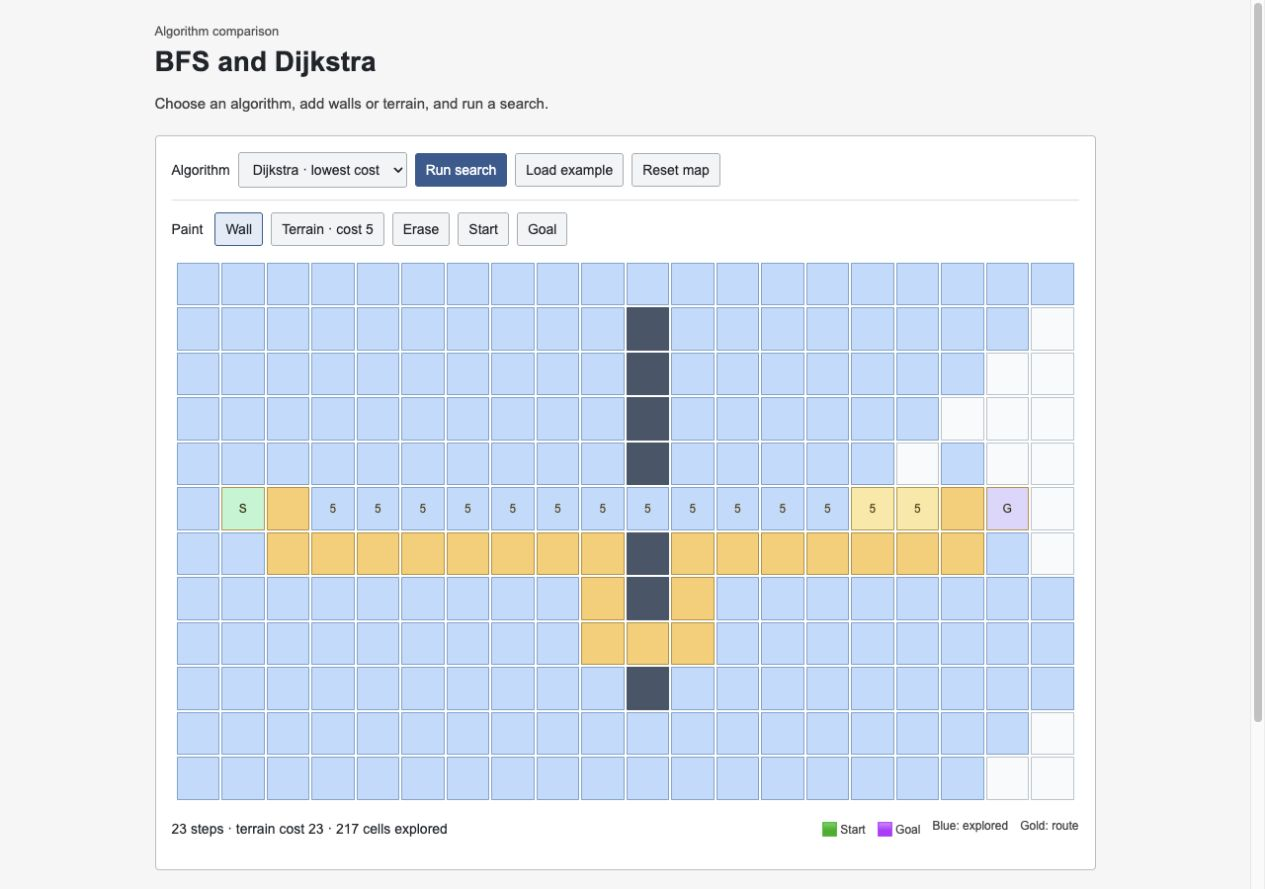
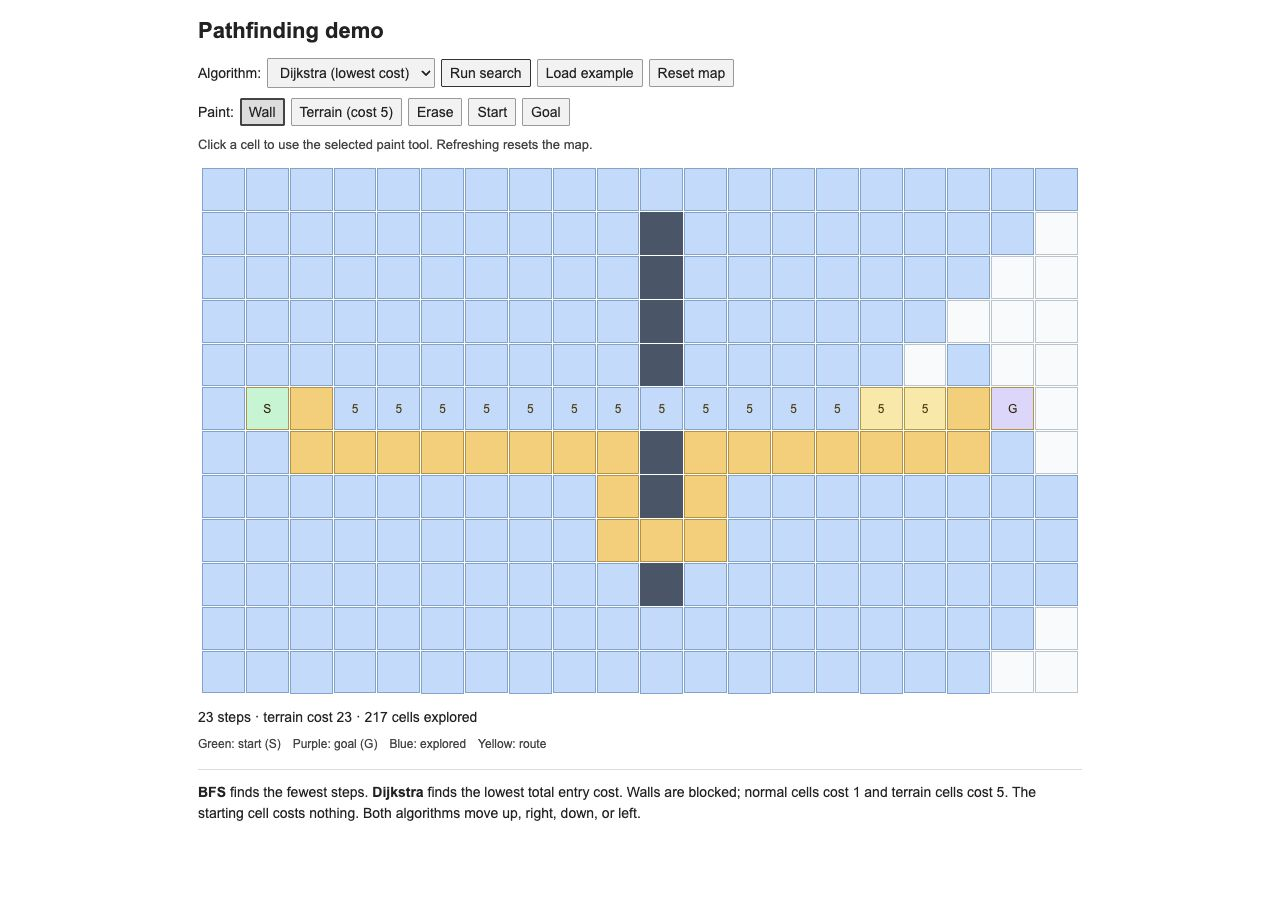
Keep the pathfinding demo focused on the grid and controls

diff --git a/src/style.css b/src/style.css
@@ -1,53 +1,40 @@
 :root {
   font-family: Arial, sans-serif;
-  color: #20252b;
-  background: #f6f6f6;
+  font-size: 14px;
+  color: #222;
+  background: #fff;
   color-scheme: light;
 }
 
 * { box-sizing: border-box; }
 body { margin: 0; }
-main { max-width: 1000px; margin: 0 auto; padding: 24px; }
-.eyebrow { margin: 0; color: #555; font-size: 13px; }
-h1 { font-size: 28px; margin: 8px 0 12px; }
-.intro { color: #444; font-size: 15px; line-height: 1.5; }
+main { max-width: 920px; margin: 0 auto; padding: 18px; }
+h1 { font-size: 22px; margin: 0 0 14px; }
 
-.workspace {
-  margin-top: 20px;
-  padding: 16px;
-  background: #fff;
-  border: 1px solid #b9bec5;
-  border-radius: 4px;
-}
-.toolbar, .paint { display: flex; gap: 8px; align-items: center; flex-wrap: wrap; }
-.toolbar { padding-bottom: 12px; border-bottom: 1px solid #ddd; }
-.toolbar label { display: flex; gap: 8px; align-items: center; font-size: 14px; }
-.paint { padding: 12px 0; font-size: 14px; }
-.paint span { margin-right: 4px; }
-
+.toolbar, .paint { display: flex; gap: 6px; align-items: center; flex-wrap: wrap; }
+.paint { margin-top: 10px; }
 button, select {
   font: inherit;
-  font-size: 14px;
-  border: 1px solid #a6adb5;
-  border-radius: 3px;
-  background: #f3f4f5;
-  color: #20252b;
-  padding: 8px 10px;
-  cursor: pointer;
+  padding: 5px 8px;
+  color: #222;
+  background: #f2f2f2;
+  border: 1px solid #999;
+  border-radius: 2px;
 }
-button:hover { border-color: #345b91; }
-button:focus-visible, select:focus-visible { outline: 3px solid #1d4ed8; outline-offset: 3px; }
-button[aria-pressed=true] { background: #e1ebf7; border-color: #345b91; }
-button.primary { background: #345b91; color: #fff; border-color: #345b91; }
+button { cursor: pointer; }
+button:hover { border-color: #333; }
+button:focus-visible, select:focus-visible { outline: 3px solid #1d4ed8; outline-offset: 2px; }
+button[aria-pressed=true] { background: #ddd; border: 2px solid #444; padding: 4px 7px; }
+.hint { margin: 10px 0; color: #444; font-size: 13px; line-height: 1.4; }
 
-.grid-scroll { overflow-x: auto; padding: 5px; }
-#grid { display: grid; grid-template-columns: repeat(20, minmax(0, 1fr)); gap: 2px; min-width: 560px; }
+.grid-scroll { overflow-x: auto; padding: 4px; }
+#grid { display: grid; grid-template-columns: repeat(20, minmax(0, 1fr)); gap: 1px; min-width: 560px; }
 .cell {
   aspect-ratio: 1;
   min-height: 20px;
   padding: 0;
   border: 1px solid #b9c3cd;
-  border-radius: 1px;
+  border-radius: 0;
   background: #f8fafc;
   font-size: 12px;
 }
@@ -58,13 +45,9 @@ button.primary { background: #345b91; color: #fff; border-color: #345b91; }
 .cell.start { background: #bbf7d0 !important; color: #16532a; border-color: #649b74; }
 .cell.goal { background: #ddd6fe !important; color: #41257b; border-color: #8c7cba; }
 
-.below { display: flex; justify-content: space-between; gap: 12px; align-items: center; flex-wrap: wrap; }
-#status { font-size: 14px; line-height: 1.5; }
-.legend { display: flex; gap: 12px; font-size: 12px; color: #444; flex-wrap: wrap; }
-.explain { display: grid; grid-template-columns: 1fr 1fr; gap: 24px; margin: 20px 0; }
-.explain h2 { font-size: 17px; margin-bottom: 8px; }
-.explain p, footer { font-size: 14px; color: #444; line-height: 1.5; }
-footer { border-top: 1px solid #ccc; padding-top: 12px; }
+#status { margin: 10px 0; line-height: 1.4; }
+.legend { display: flex; gap: 12px; flex-wrap: wrap; font-size: 12px; color: #444; }
+.notes { margin-top: 18px; padding-top: 12px; border-top: 1px solid #ddd; line-height: 1.5; }
 
 @keyframes explore {
   from { background: #f8fafc; }
@@ -75,12 +58,8 @@ footer { border-top: 1px solid #ccc; padding-top: 12px; }
   to { background: #facc6c; border-color: #ba9135; color: #382a08; }
 }
 @media (max-width: 700px) {
-  main { padding: 16px; }
-  .workspace { padding: 12px; }
-  .explain { grid-template-columns: 1fr; gap: 4px; }
-  .toolbar label { width: 100%; }
-  .toolbar select { flex: 1; }
-  .paint { gap: 6px; }
+  main { padding: 12px; }
+  .toolbar, .paint { gap: 5px; }
 }
 @media (prefers-reduced-motion: reduce) {
   .cell.visited, .cell.path { animation-duration: 0s; animation-delay: 0s; }

diff --git a/index.html b/index.html
@@ -1,14 +1,50 @@
 <!doctype html>
 <html lang="en">
-<head><meta charset="utf-8"><meta name="viewport" content="width=device-width, initial-scale=1"><meta name="theme-color" content="#f6f6f6"><title>Pathfinder Lab</title><link rel="stylesheet" href="src/style.css"></head>
-<body><main>
-  <header><p class="eyebrow">Algorithm comparison</p><h1>BFS and Dijkstra</h1><p class="intro">Choose an algorithm, add walls or terrain, and run a search.</p></header>
-  <section class="workspace" aria-label="Pathfinding lab">
-    <div class="toolbar"><label>Algorithm<select id="algorithm" aria-label="Algorithm"><option value="dijkstra">Dijkstra · lowest cost</option><option value="bfs">BFS · fewest steps</option></select></label><button id="run" class="primary">Run search</button><button id="example">Load example</button><button id="reset">Reset map</button></div>
-    <div class="paint" aria-label="Paint tools"><span>Paint</span><button data-mode="wall" aria-pressed="true">Wall</button><button data-mode="terrain" aria-pressed="false">Terrain · cost 5</button><button data-mode="erase" aria-pressed="false">Erase</button><button data-mode="start" aria-pressed="false">Start</button><button data-mode="goal" aria-pressed="false">Goal</button></div>
-    <div class="grid-scroll"><div id="grid" aria-label="Editable map, 12 rows and 20 columns"></div></div>
-    <div class="below"><p id="status" role="status">Choose a paint tool, then click a cell. Or load the weighted example.</p><div class="legend"><span>🟩 Start</span><span>🟪 Goal</span><span>Blue: explored</span><span>Gold: route</span></div></div>
+<head>
+  <meta charset="utf-8">
+  <meta name="viewport" content="width=device-width, initial-scale=1">
+  <meta name="theme-color" content="#ffffff">
+  <title>Pathfinder Lab</title>
+  <link rel="stylesheet" href="src/style.css">
+</head>
+<body>
+<main>
+  <h1>Pathfinding demo</h1>
+  <section aria-label="Pathfinding lab">
+    <div class="toolbar">
+      <label for="algorithm">Algorithm:</label>
+      <select id="algorithm">
+        <option value="dijkstra">Dijkstra (lowest cost)</option>
+        <option value="bfs">BFS (fewest steps)</option>
+      </select>
+      <button id="run">Run search</button>
+      <button id="example">Load example</button>
+      <button id="reset">Reset map</button>
+    </div>
+    <div class="paint" aria-label="Paint tools">
+      <span>Paint:</span>
+      <button data-mode="wall" aria-pressed="true">Wall</button>
+      <button data-mode="terrain" aria-pressed="false">Terrain (cost 5)</button>
+      <button data-mode="erase" aria-pressed="false">Erase</button>
+      <button data-mode="start" aria-pressed="false">Start</button>
+      <button data-mode="goal" aria-pressed="false">Goal</button>
+    </div>
+    <p class="hint">Click a cell to use the selected paint tool. Refreshing resets the map.</p>
+    <div class="grid-scroll">
+      <div id="grid" aria-label="Editable map, 12 rows and 20 columns"></div>
+    </div>
+    <p id="status" role="status">Ready.</p>
+    <div class="legend">
+      <span>Green: start (S)</span>
+      <span>Purple: goal (G)</span>
+      <span>Blue: explored</span>
+      <span>Yellow: route</span>
+    </div>
   </section>
-  <section class="explain"><article><h2>Fewest steps</h2><p>Breadth-first search treats every move equally. It finds a route with the smallest number of moves, even when that route crosses expensive terrain.</p></article><article><h2>Lowest cost</h2><p>Dijkstra adds the cost of each cell you enter. It can take a longer route to avoid expensive terrain. Moves are up, right, down, or left.</p></article></section>
-  <footer>The map resets when you refresh.</footer>
-</main><script type="module" src="src/app.js"></script></body></html>
+  <p class="notes"><strong>BFS</strong> finds the fewest steps. <strong>Dijkstra</strong> finds the lowest total entry cost.
+    Walls are blocked; normal cells cost 1 and terrain cells cost 5. The starting cell costs nothing.
+    Both algorithms move up, right, down, or left.</p>
+</main>
+<script type="module" src="src/app.js"></script>
+</body>
+</html>

diff --git a/README.md b/README.md
@@ -1,41 +1,33 @@
 # Pathfinder Lab
 
-A JavaScript grid for comparing breadth-first search and Dijkstra's algorithm. Add walls and weighted terrain, then compare the route, cost, and number of explored cells.
+A grid for trying BFS and Dijkstra's algorithm. Paint walls or expensive terrain and compare the routes.
 
-![BFS and Dijkstra grid](docs/preview.png)
+![Pathfinder Lab](docs/preview.png)
 
-## Try it
+## Open it
 
-Serve the project folder with Python 3:
+From this folder, with Python 3:
 
 ```sh
 python3 -m http.server 8000 --bind 127.0.0.1
 ```
 
-Open <http://127.0.0.1:8000>. The page uses JavaScript modules, so opening `index.html` directly is not enough. There are no packages to install.
+Go to <http://127.0.0.1:8000>. Opening `index.html` directly won't load the JavaScript modules.
 
-Click **Load example**, run **BFS**, then run **Dijkstra** on the same map. BFS takes the route with fewer steps; Dijkstra can take a longer route that costs less. Use the paint tools to change the map or move its start and goal.
+Click **Load example**, run BFS, then Dijkstra. BFS minimizes moves; Dijkstra minimizes terrain cost. Normal cells cost 1 and painted terrain costs 5. Moves go up, right, down, or left, and entering the start costs nothing.
 
-## How the search works
+Both algorithms are in `src/search.js`, separate from the page code. Dijkstra picks the next cell with a linear scan rather than a priority queue, so it suits small maps. The page uses a 12 × 20 grid; the search module accepts up to 10,000 cells.
 
-Moves go up, right, down, or left. A wall is blocked, a normal cell costs 1, and painted terrain costs 5. The cost is paid when entering a cell; the start costs nothing.
-
-`src/search.js` contains both algorithms without any page code. BFS uses a queue and minimizes the number of moves. Dijkstra tracks the cheapest known cost and picks the lowest-cost frontier cell next. It uses a linear scan instead of a priority queue, keeping the code short at the cost of O(V²) worst-case time. BFS takes O(V + E); both use O(V) space.
-
-`src/app.js` handles the 12 × 20 map and displays the results. Editing clears the previous search, and refreshing resets the map. Cells and controls work with a keyboard, and animations respect reduced-motion settings.
+The map is only in memory. Refreshing clears it. There's no diagonal movement or saved-map support.
 
 ## Tests
 
-With Node.js 22 or newer:
+With Node 22+:
 
 ```sh
 npm test
 ```
 
-Tests check routes on uniform and weighted grids, blocked goals, boundaries, invalid input, and whether a search leaves the original grid unchanged. CI runs them on Node 22 and 24.
+No npm install is needed. Tests check routes, walls, and weighted detours.
 
-## Limits
-
-The interface is for small maps. The search module accepts up to 10,000 cells, but Dijkstra's linear frontier becomes slow on large grids. It has no diagonal movement, saved maps, or map import. Narrow screens can scroll the grid horizontally.
-
-[MIT license](LICENSE)
+[MIT](LICENSE)
